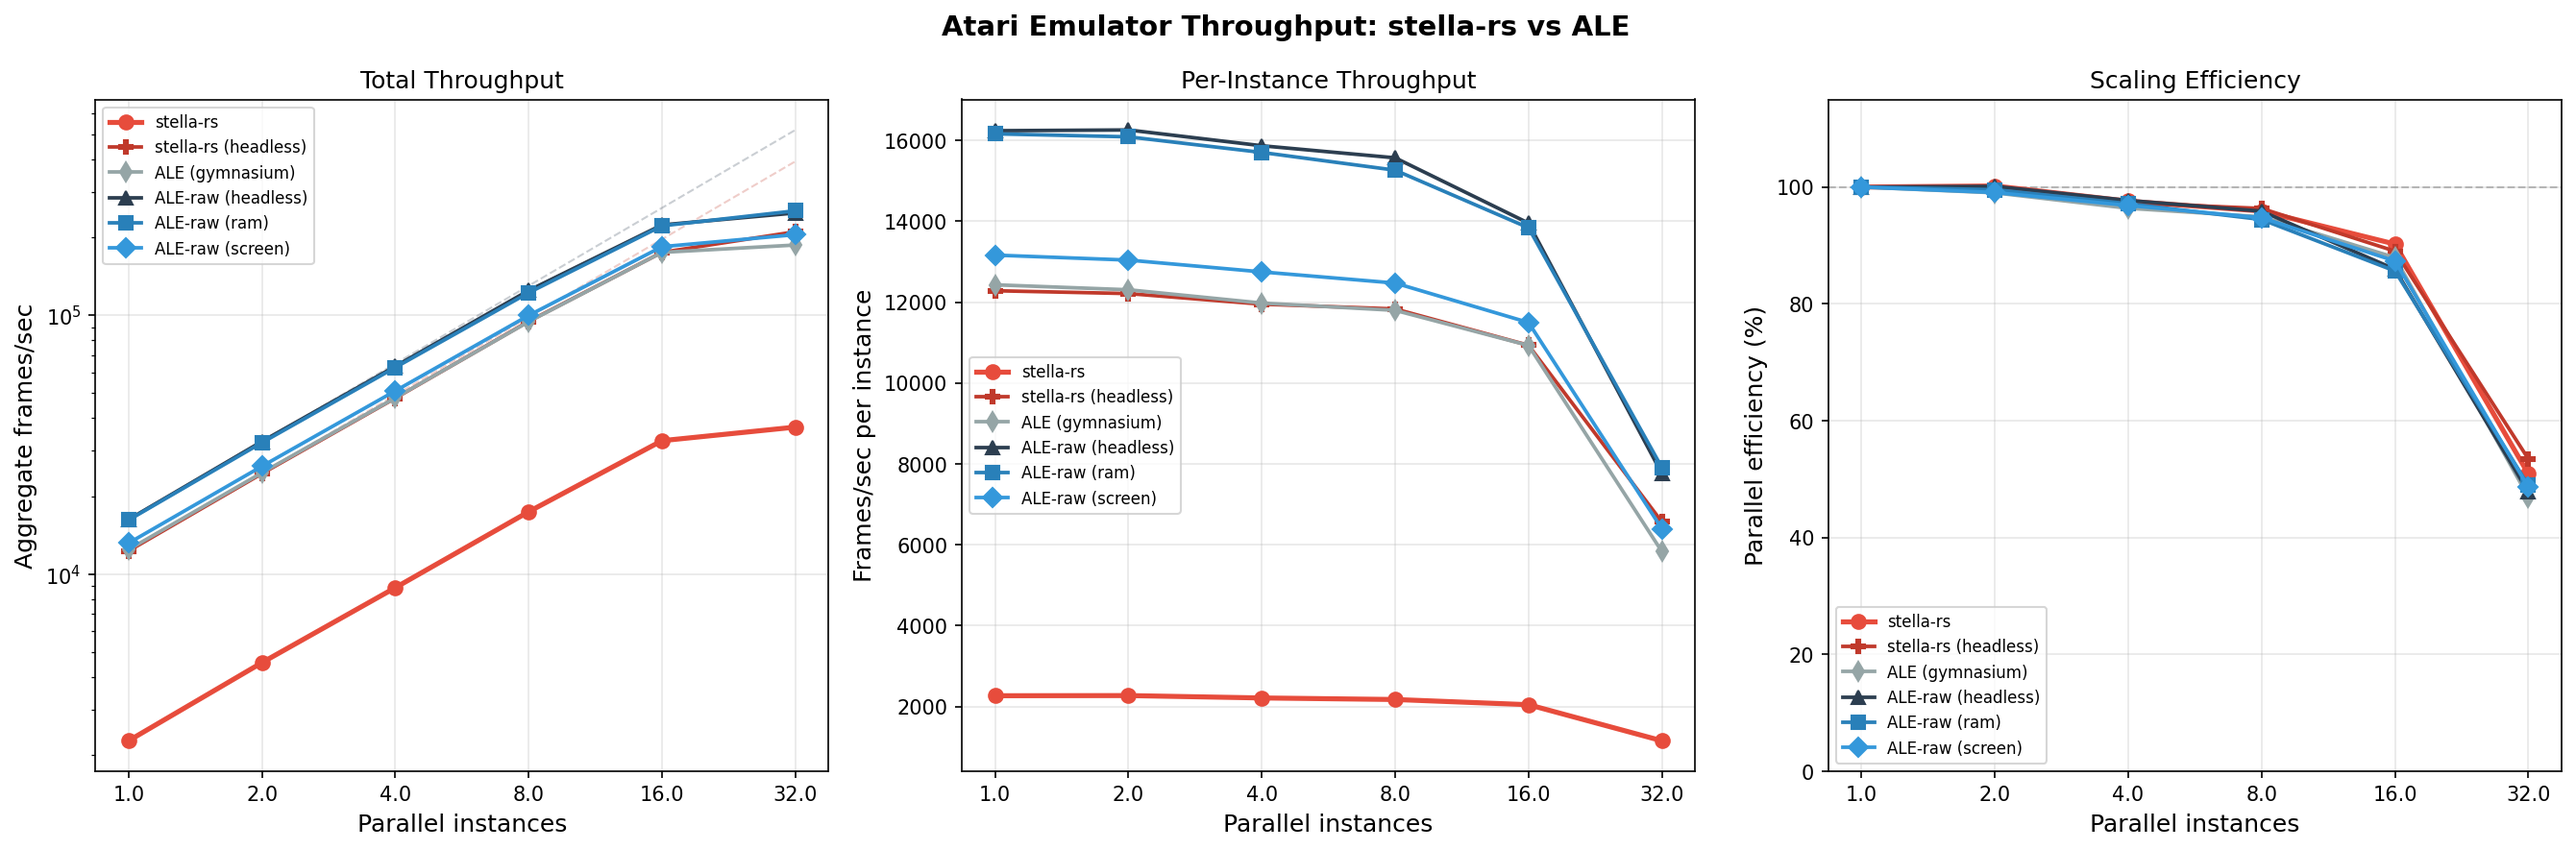
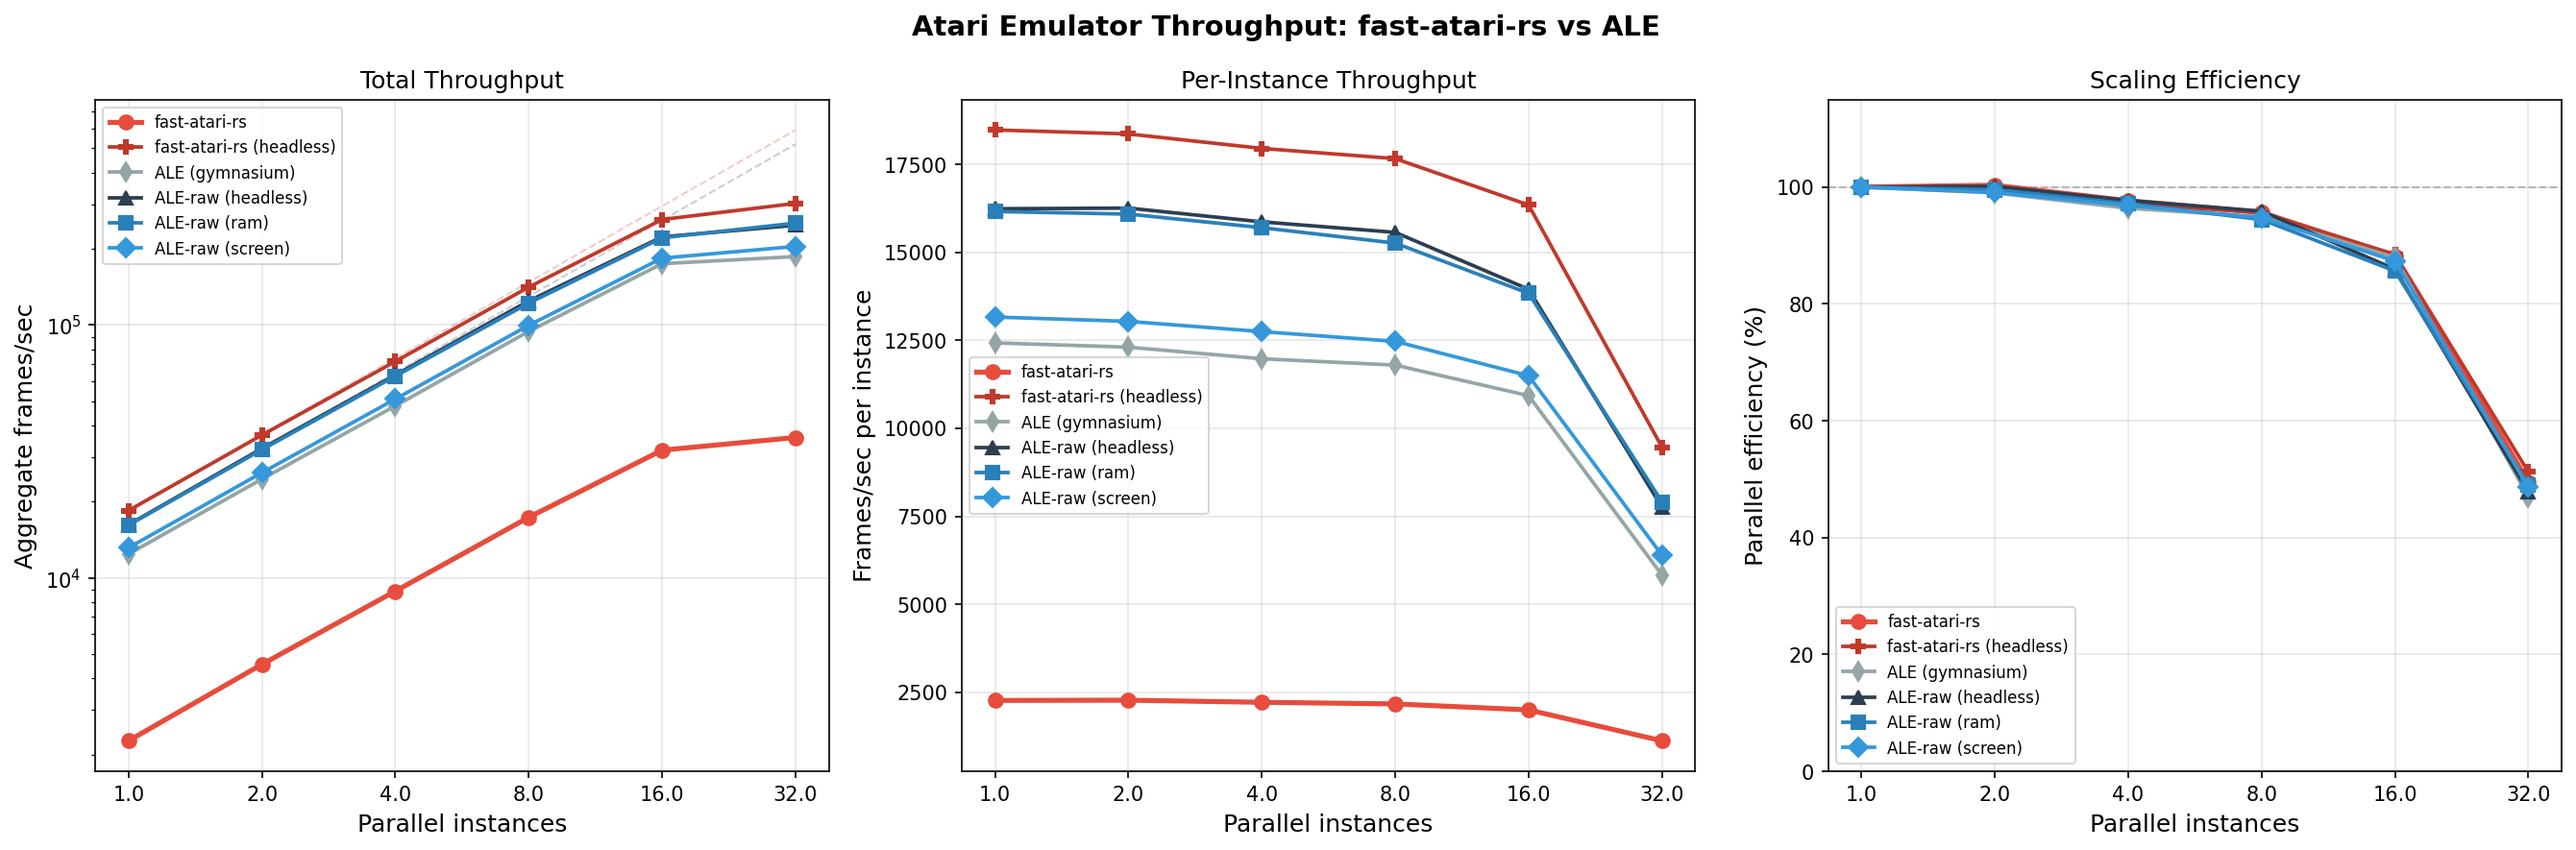
Update README and graphs with cpu-optimized benchmark results
18,479 fps single-threaded headless (1.14x ALE raw C++).
302,948 fps aggregate at 32 cores (1.22x ALE raw).

diff --git a/README.md b/README.md
@@ -18,33 +18,41 @@ Turns out it is really easy to fix. There is a difference between pragmatism and
 
 | Emulator | FPS |
 |---|---|
-| fast-atari-rs (headless, WSYNC fast-forward) | **12,283** |
-| fast-atari-rs (headless) | 10,118 |
+| **fast-atari-rs (headless, cpu-optimized)** | **18,479** |
 | ALE-raw (headless, no obs) | 16,240 |
 | ALE-raw (screen obs) | 13,164 |
 | ALE (gymnasium) | 12,429 |
-| fast-atari-rs (rendering) | 2,268 |
+| fast-atari-rs (rendering) | 2,269 |
 
 #### Aggregate throughput at 32 cores
 
 | Emulator | FPS | Efficiency |
 |---|---|---|
+| **fast-atari-rs (headless)** | **302,948** | **51.2%** |
 | ALE-raw (headless) | 248,310 | 47.8% |
-| **fast-atari-rs (headless)** | **210,129** | **53.5%** |
 | ALE (gymnasium) | 186,683 | 46.9% |
 
-fast-atari-rs headless is within 1.3x of ALE's raw C++ core per-thread, with better parallel scaling. The architecture is intentionally simple (no jump tables, no computed goto) to facilitate a future CUDA port.
+fast-atari-rs headless is **1.14x faster** than ALE's raw C++ core single-threaded, and **1.22x faster** at 32 cores. The architecture is intentionally simple (no jump tables, no computed goto) to facilitate a future CUDA port.
 
-### Profiling (headless mode)
+#### CPU-optimized branch optimizations
+
+| Optimization | Single-thread FPS | Cumulative speedup |
+|---|---|---|
+| Baseline headless | 10,118 | 1.0x |
+| + WSYNC fast-forward | 12,283 | 1.21x |
+| + Flat 8KB memory bus | 16,167 | 1.60x |
+| + Static opcode tables | 17,127 | 1.69x |
+| + Inline bankswitch elision | 18,479 | 1.83x |
+
+### Profiling (headless mode, cpu-optimized)
 
 | Function | % time |
 |---|---|
-| `Cpu::step` (instruction dispatch) | 32.0% |
-| `run_one_cycle` (frame loop + component ticking) | 31.6% |
-| `HeadlessBus::read` (address decoding) | 19.9% |
-| `Cpu::resolve_addr` | 5.5% |
-| `OpCode::details` | 3.0% |
-| Other | 8.0% |
+| `run_one_cycle` (frame loop + TIA/PIA tick) | 33.9% |
+| `Cpu::step` (instruction dispatch) | 29.2% |
+| `HeadlessBus::read` (flat array lookup) | 23.9% |
+| `Cpu::resolve_addr` | 4.4% |
+| Other | 8.6% |
 
 ### Running benchmarks
 
